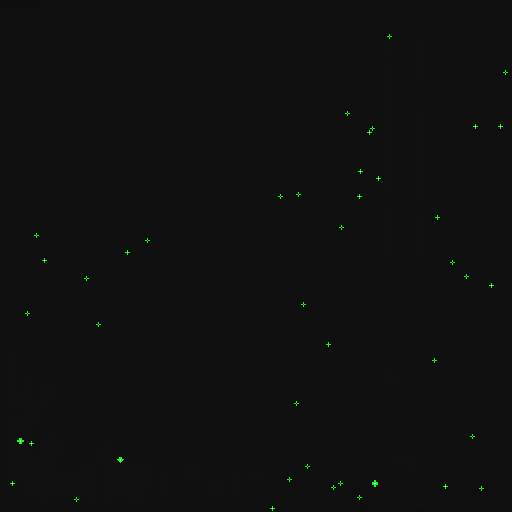
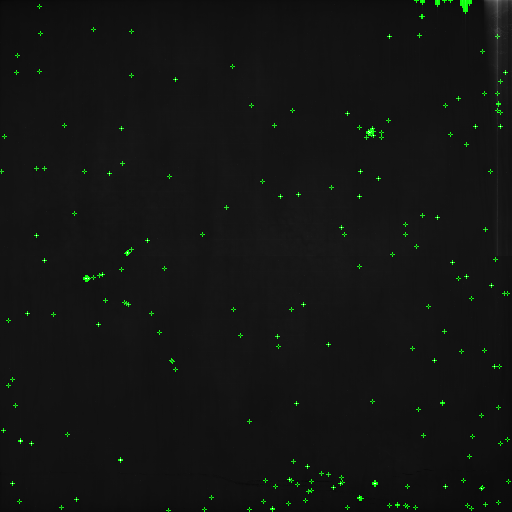
Andy schau sofort!

diff --git a/.vscode/badpixel.py b/.vscode/badpixel.py
@@ -27,7 +27,7 @@ import markPixels as mP
 
 
 #importPath = "/Users/julian/Google Drive/Studium/Master/1. Semester/Mechatronische Systeme/Mecha. Systeme/F&E Bad-Pixel/2. Stand der Technik - Recherche/Beispielbilder/Daten/Aufnahmen zur Korrektur Panel Version 2/Serie4/Bildserie4_75kV_20uA.his"
-importPath = "Bildserie1_160kV_0uA.his"
+importPath = "Bildserie3_160kV_0uA.his"
 bildDaten = imP.hisImportFunction(importPath,False)
 
 #Beispiel

diff --git a/.vscode/markPixels.py b/.vscode/markPixels.py
@@ -35,7 +35,7 @@ def bottom(aktuellerWert, minWert = 0):
         return aktuellerWert
 
 def top(aktuellerWert, maxWert):
-    if(aktuellerWert > maxWert):
-        return maxWert
+    if(aktuellerWert > maxWert-1):
+        return maxWert-1
     else:
         return aktuellerWert
